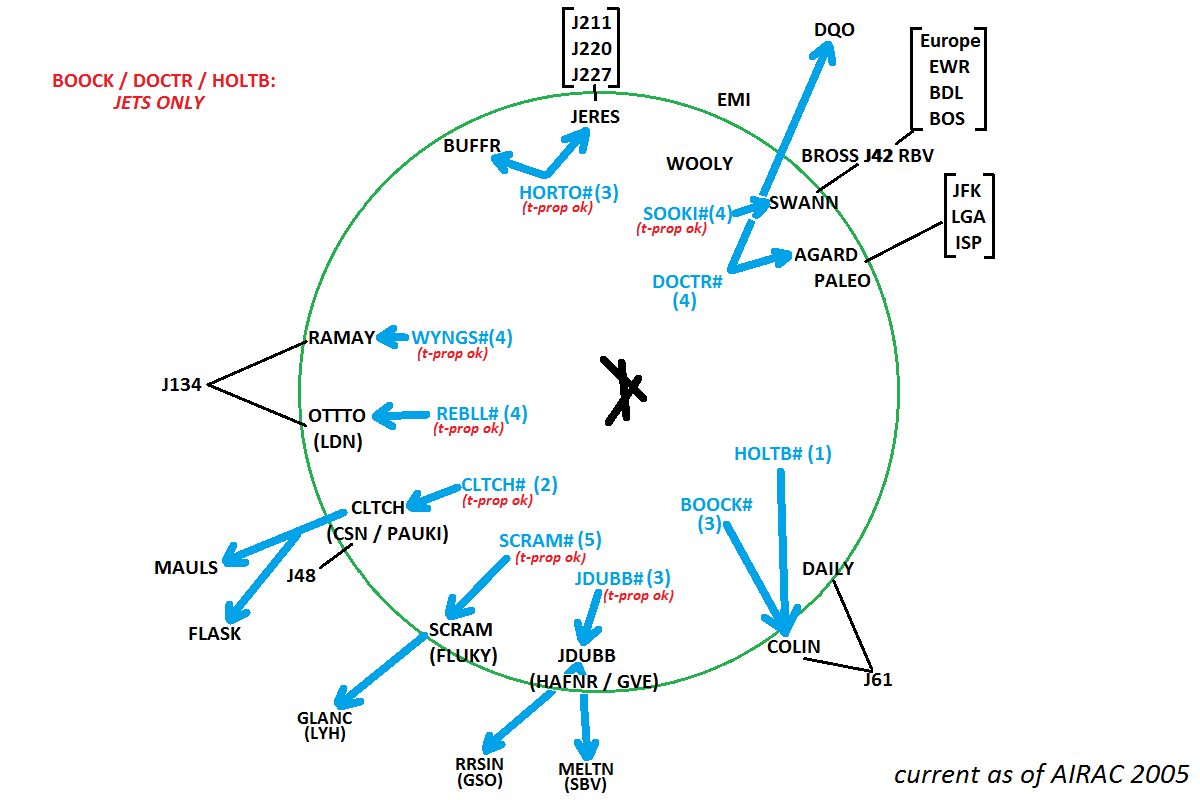
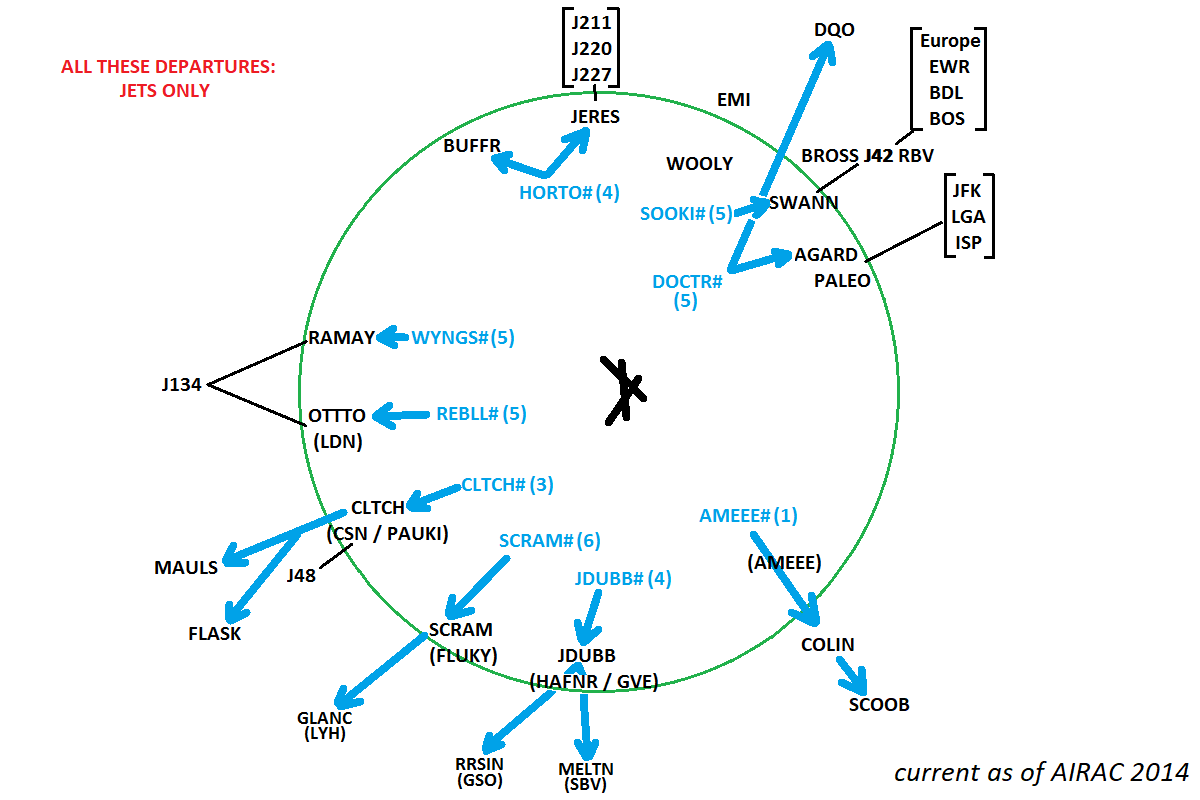
updated dep gate diags, airlines, aircraft types
updated departure gate diagrams for bwi, dca, and iad to comply with airac 2014 changes.  added a few airlines (real and fictional), and added a few aircraft type codes.

diff --git a/public/ZDC_quickreference/airlines.html b/public/ZDC_quickreference/airlines.html
@@ -13,6 +13,7 @@ AAH Aloha
 <br>AEE Aegean
 <br>AFL Aeroflot
 <br>AFR Air France
+<br>AKO Air Koios (KEE-os)
 <br>AMX Aeromexico
 <br>ANA All Nippon
 <br>ANZ New Zealand
@@ -20,6 +21,7 @@ AAH Aloha
 <br>ASA Alaska
 <br>ASH Air Shuttle
 <br>ASQ Acey
+<br>AUA Austrian
 <br>AWE Cactus
 <br>AWI Wisconsin
 <br>BAW Speedbird
@@ -37,9 +39,11 @@ AAH Aloha
 <br>CSN China Southern
 <br>DAL Delta
 <br>DCM Dot Com
+<br>DGE Digital
 <br>DHL DHL
 <br>DLH Lufthansa
 <br>EAL Eastern
+<br>EGF Eagle Flight
 <br>EIN Shamrock
 <br>EJA ExecJet
 <br>ENY Envoy
@@ -50,6 +54,7 @@ AAH Aloha
 <br>FDX FedEx
 <br>FDY Friendly
 <br>FFT Frontier Flight
+<br>FHV Fly High
 <br>GEC Lufthansa Cargo
 <br>GGT Thunderball
 <br>GJS Lindbergh
@@ -67,11 +72,15 @@ AAH Aloha
 <br>KFS Kalitta
 <br>KLM KLM
 <br>KMY Camilla
+<br>LAN Lan Chile
+<br>LFE LifeFlight
 <br>LOF Waterski
+<br>LSX LoneStar
 <br>LXJ FlexJet
 <br>LYM Key Lime
 <br>MSR EgyptAir
 <br>MTN Mountain
+<br>NCA Nippon Cargo
 <br>NDL Needle
 <br>NKS Spirit Wings
 <br>NWA Northwest
@@ -80,6 +89,7 @@ AAH Aloha
 <br>PAL Philippine
 <br>PCT Potomac
 <br>PDT Piedmont
+<br>PFL ProFlight
 <br>POE Porter
 <br>PRD Presidential
 <br>PSO Aero Pegaso
@@ -104,6 +114,7 @@ AAH Aloha
 <br>THY Turkish
 <br>TRA Transavia
 <br>TRS Citrus
+<br>TSC Transsat
 <br>TWA TWA
 <br>UAE Emirates
 <br>UAL United
@@ -116,5 +127,7 @@ AAH Aloha
 <br>VSX VATSTAR
 <br>WGN Western Global
 <br>WJA WestJet
+<br>WRD Ward Air
+<br>WWA Westwind
 
 </body>

diff --git a/public/ZDC_quickreference/aircraft.html b/public/ZDC_quickreference/aircraft.html
@@ -144,6 +144,8 @@ A124 Antonov
 <br>DHC3 Otter
 <br>DHC6 Twin Otter
 <br>
+<br>E300 Extra
+<br>
 <br>EA50 Eclipse
 <br>
 <br>E110 Embraer
@@ -163,6 +165,7 @@ A124 Antonov
 <br>E55P Phenom
 <br>
 <br>FA50 Falcon
+<br>FA7X Falcon
 <br>
 <br>HDJT HondaJet
 <br>
@@ -179,6 +182,8 @@ A124 Antonov
 <br>LJ35 LearJet
 <br>LJ45 LearJet
 <br>LJ60 LearJet
+<br>
+<br>M20P Mooney
 <br>
 <br>MD11 McDonnell-Douglas
 <br>MD81 McDonnell-Douglas
@@ -224,5 +229,7 @@ A124 Antonov
 <br>T204 Tupolev
 <br>
 <br>TBM9 TBM
+<br>
+<br>VL3 Evolution
 
 </body>
